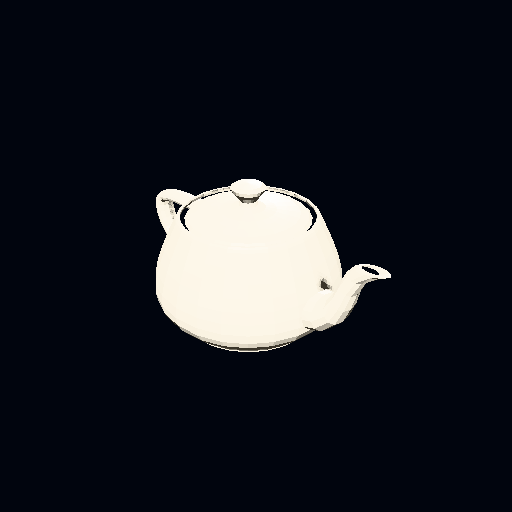
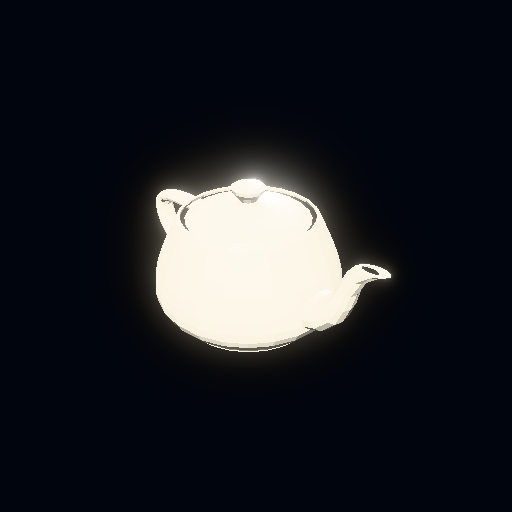
Regenerate three stale tutorial goldens the render defaults left behind, not a nondeterminism bug.
tut-07 quietly flipped renderProject's bloom and shadow defaults for any project with no lighting of its own; case 2's and case 6's own reference PNGs were never regenerated for it and went stale, while case 5's already had been. Confirmed the render path itself is not the cause (two fresh renders of the same request are always byte-identical), documented why on renderProject and both fixture tools, and regenerated the three affected pictures.

Changed region(s): [[0.25, 0.2812, 0.7812, 0.7188], [0.625, 0.5312, 0.6562, 0.5625]]

diff --git a/packages/flutter3d_cpu/test/render_project_test.dart b/packages/flutter3d_cpu/test/render_project_test.dart
@@ -319,6 +319,86 @@ void main() {
     });
   });
 
+  group('tut-22 — renderProject is deterministic', () {
+    // `tut-22`'s own investigation (`doc/modeler-tutorial-gaps.md`): four
+    // committed tutorial reference PNGs were found to differ from a clean
+    // regenerate of the same, unmodified HEAD. That turned out to have
+    // nothing to do with `renderProject` itself — the real cause was
+    // `tut-07`'s own legitimate default change (`RenderSettings.bloom`/
+    // `.shadows` now follow `SceneLighting`'s own defaults, which do not
+    // match `RenderSettings`'s bare ones, for a project that never touches
+    // its own lighting) reaching two tutorial cases' own reference pictures
+    // that were never regenerated for it — not a source of nondeterminism
+    // anywhere in the render path. This group is what actually rules that
+    // out, rather than leaving it assumed: the same project, rendered twice,
+    // must come back byte-identical, in one process and across two.
+    test(
+      'the same project, rendered twice in one process, is byte-identical',
+      () async {
+        // A shape close to the two cases this row's own investigation named:
+        // an edited mesh under a modifier, no explicit `SceneLighting` at
+        // all — exactly the combination that made `tut-07`'s default change
+        // invisible to every test that only ever compared *within* one run.
+        final project = _editedCubeProject(
+          modifiers: <ModifierSlot>[
+            ModifierSlot(modifier: MirrorModifier(normal: Vector3(1, 0, 0))),
+          ],
+        );
+        final request = RenderRequest(
+          project: project,
+          view: RenderProjectView.front,
+          width: 64,
+          height: 64,
+        );
+        final first = await renderProject(request, deviceFactory: _cpuDevice);
+        final second = await renderProject(request, deviceFactory: _cpuDevice);
+        expect(
+          second,
+          orderedEquals(first),
+          reason:
+              'renderProject has no clock, no random seed and no unordered '
+              'Set/Map on its own render path — two calls with the same '
+              'RenderRequest must produce the same bytes',
+        );
+      },
+    );
+
+    test(
+      'the same project, rendered in two fresh CpuDevices, is byte-identical',
+      () async {
+        // `_cpuDevice` builds a brand-new `CpuDevice` per call, the same
+        // shape `tool/make_caseN_fixtures.dart` uses from a fresh `dart run`
+        // process each time it is invoked by hand — so this is the closer
+        // analogue of "two fresh processes" than the test above, without
+        // actually paying for a second process.
+        final project = _cubeProject();
+        final request = RenderRequest(
+          project: project,
+          view: RenderProjectView.iso,
+          width: 48,
+          height: 48,
+        );
+        final a = await renderProject(
+          request,
+          deviceFactory: (w, h) => CpuDevice(
+            width: w,
+            height: h,
+            shaders: CpuShaderLibrary(builtinCpuShaders()),
+          ),
+        );
+        final b = await renderProject(
+          request,
+          deviceFactory: (w, h) => CpuDevice(
+            width: w,
+            height: h,
+            shaders: CpuShaderLibrary(builtinCpuShaders()),
+          ),
+        );
+        expect(b, orderedEquals(a));
+      },
+    );
+  });
+
   group('tut-06 — modifiers read at render time', () {
     Future<Rgba8Image> render(ModelProject project) async =>
         (await decodeImagePure(

diff --git a/packages/flutter3d_model_core/lib/src/render_project.dart b/packages/flutter3d_model_core/lib/src/render_project.dart
@@ -208,6 +208,27 @@ const int _maxRenderDimension = 1024;
 /// [ModelProject.lighting] still does not reach a picture through
 /// (`ambientIntensity`, `environment`).
 ///
+/// **`tut-07` also moved bloom and shadows onto [SceneLighting]'s own
+/// defaults, which do not match [RenderSettings]'s bare ones — `tut-22`'s
+/// own finding.** Before `tut-07`, this function always rendered with
+/// `bloom` forced off and `shadows` left at [ShadowSettings]'s own default
+/// (`enabled: true`), regardless of the project. Since, both come from
+/// [LightingSync.apply] instead: `bloom.enabled` follows
+/// `SceneLighting.post.bloomEnabled` (default `true`) and `shadows.enabled`
+/// follows `SceneLighting.shadows` (default `false`) — the opposite of each
+/// bare default, for *any* project that has never called
+/// `SetSceneLightingField` at all. A deliberate change (verified against
+/// case 3's and case 4's own reference pictures in the same commit, and by
+/// `tut-22`'s own determinism tests below — this function has no clock, no
+/// random seed and no unordered iteration on its own render path, so it is
+/// not the source of a byte difference), but four other tutorial cases'
+/// reference pictures were not regenerated when it landed and quietly went
+/// stale — `tut-22`'s own row is the account of finding and fixing that.
+/// **Any tutorial case whose fixture never sets `SceneLighting` explicitly
+/// is reading these two defaults**, so if either one moves again, every
+/// such case's reference pictures need regenerating, not only the ones a
+/// commit happens to check by eye.
+///
 /// Throws [RenderRefusal] for a size outside 1×1..1024×1024, before
 /// [deviceFactory] is ever called.
 Future<Uint8List> renderProject(

diff --git a/packages/flutter3d_model_mcp/tool/make_case2_fixtures.dart b/packages/flutter3d_model_mcp/tool/make_case2_fixtures.dart
@@ -8,6 +8,16 @@
 // deliberate change to the scenario or the writers it exercises; read the
 // diff before committing the new fixtures.
 //
+// `tut-22` (`doc/modeler-tutorial-gaps.md`): 05-vase-mesh.png and
+// 06-vase-modifiers-preview.png were found to differ, deterministically,
+// from a clean regenerate of the same HEAD — not because renderProject is
+// nondeterministic (it isn't; see `render_project_test.dart`'s own
+// `tut-22` group), but because `tut-07`'s own commit moved bloom's and
+// shadows' defaults onto `SceneLighting`'s own (see
+// `render_project.dart`'s doc comment) and this case never sets its own
+// lighting at all, so both PNGs quietly went stale without anyone
+// regenerating them. Regenerated deliberately as part of `tut-22`'s own fix.
+//
 //     dart run tool/make_case2_fixtures.dart
 import 'dart:io';
 import 'dart:typed_data';

diff --git a/packages/flutter3d_model_mcp/tool/make_case6_fixtures.dart b/packages/flutter3d_model_mcp/tool/make_case6_fixtures.dart
@@ -6,6 +6,15 @@
 // Run once by hand after a deliberate change to the scenario or the writers
 // it exercises; read the diff before committing the new fixtures.
 //
+// `tut-22` (`doc/modeler-tutorial-gaps.md`): 02-final-material.png was
+// found to differ, deterministically, from a clean regenerate of the same
+// HEAD — not because renderProject is nondeterministic (it isn't; see
+// `render_project_test.dart`'s own `tut-22` group), but because `tut-07`'s
+// own commit moved bloom's and shadows' defaults onto `SceneLighting`'s own
+// (see `render_project.dart`'s doc comment) and this case never sets its
+// own lighting at all, so the PNG quietly went stale without anyone
+// regenerating it. Regenerated deliberately as part of `tut-22`'s own fix.
+//
 //     dart run tool/make_case6_fixtures.dart
 import 'dart:io';
 import 'dart:typed_data';

diff --git a/doc/model-editor-plan.md b/doc/model-editor-plan.md
@@ -868,6 +868,7 @@ version is its own later row.
 | tut-19 *(found closing out tut-00, 2026-09-15)* | The plan's own known candidate: the cabinet has no preview picture. Still true, and already tracked elsewhere, not a fresh finding: `cloud/README.md`'s own "What is not here yet" says outright the schema and repository have a place for a preview picture but nothing makes one yet, pending a browser-side capture the viewer cannot read back yet. The plan's own "out of scope" list already calls this "a separate `cloud` row". **Decision: откладываем** — already an owner-acknowledged `cloud` roadmap item; this pass only confirms it is still true and gives it a `tut-NN` name so the gap journal's own acceptance rule has something to point at | cloud | — | — | — | not scheduled this pass — tracked by `cloud/README.md` already; a real row lives with `cloud`'s own plan, not `model-editor-plan.md` |
 | tut-20 *(found closing out tut-00, 2026-09-15)* | The plan's own known candidate: a model opened from the cabinet cannot be saved back. Still true, and already tracked elsewhere, not a fresh finding: the same "What is not here yet" section says editing from the cabinet is real (the viewer opens a model) but saving it back, with revisions, is its own next stage. **Decision: откладываем** — same reasoning as `tut-19`, and the same source names both in one breath | cloud | — | — | — | not scheduled this pass — tracked by `cloud/README.md` already; a real row lives with `cloud`'s own plan, not `model-editor-plan.md` |
 | tut-21 *(found fixing tut-10, 2026-09-15)* | `tut-10`'s own row named this outright and left it open on purpose: `buildSkeleton` (`packages/flutter3d_model_core/lib/src/rig_template.dart`) computed every joint's `inverseBindMatrices` as `inverse(worldRest)` alone — correct only for a mesh object whose own world transform happens to be the identity, and silently wrong for anything else, since every marker `buildSkeleton` reads is a world-space pick but the engine's own skinning convention (`Skeleton.update`'s own doc comment, `packages/flutter3d_core/lib/src/engine/scene/skeleton.dart`: `jointMatrix = inverse(meshWorld) * jointWorld * inverseBind`) needs `inverseBind` to undo a bind-time position in the mesh object's own *local* space, not world space. Confirmed directly against the real `RobotExpressive.glb` fixture (a genuine ~100× scale and an axis swap, both from the file's own node hierarchy, not a synthetic case): fed through the unmodified GPU formula, the torso collapsed to about 1% of its real size. `render_project.dart`'s own `_withSkin` (`tut-10`'s fix) worked around this at render time only, by composing an extra `* meshWorld` onto each joint's own matrix; the live viewport's GPU pipeline (`SceneSync`/`Skeleton.update`) and the shadow and object-pick passes had no such workaround and simply skinned every non-identity mesh transform wrong — a real bug in every rig `T4.2`/`T4.3`'s auto-rig (`anim-21`/`anim-33d`) or screen 16 ever built for a mesh object that was not sitting at the identity. **Closed 2026-09-15**: `buildSkeleton` gains an optional `meshWorld` parameter (the mesh object's own world transform at bind time, defaulting to the identity when nothing is being skinned yet) and bakes it into `inverseBindMatrices` itself — `worldRest⁻¹ · meshWorld`, composed once at rig-build time rather than worked around per-consumer — so every reader of a `ProjectSkeleton` (the live viewport, the shadow and pick passes, `render_project.dart` alike) now gets a correct bind matrix regardless of the mesh's own transform. Its three real call sites — `autorig_markers.dart`'s `createRig` and `model_session.dart`'s `autoRig` (both read the skinned object's own `worldTransformOf` when a `skinObjectId` is given) and `case4_scenario.dart`'s own `RobotExpressive.glb` scenario — now pass it through. `render_project.dart`'s `_withSkin` no longer composes its own extra `* meshWorld`: the two corrections were mathematically the same composition, reassociated, so removing the workaround leaves `render_project.dart`'s own rendered pictures numerically the same (case 4's own `case4.f3dproj`/`.glb` and case 5's own `case5.f3dproj`/`.glb`, which starts from case 4's committed project, are regenerated — the skeleton's raw `inverseBindMatrices` bytes differ, the rendered pictures do not beyond floating-point-reassociation-level anti-aliasing at a silhouette edge, confirmed by rendering both before and after and diffing the PNGs directly). New coverage: `rig_bind_convention_test.dart`, driving the *real* engine `Skeleton.update` (not a reimplementation) against a rig built through a genuinely non-identity `meshWorld` (a ~100× scale plus a 90° axis swap, mirroring `RobotExpressive.glb`'s own real shape) and asserting a posed vertex lands at the correct world position — confirmed to fail against the pre-fix code (the vertex lands at about 1% of its expected position, reproducing this row's own "torso collapses" finding exactly) and to pass against the fix. Every prior `buildSkeleton` test (`rig_template_test.dart`, `retarget_test.dart`, `autorig_frame_test.dart`'s own `modeler-autorig.png` golden, `frame_test.dart`'s own `skeleton-overlay.png` golden) used an implicit identity `meshWorld` throughout — checked directly, every mesh object those tests build carries `Matrix4.identity()` — which is exactly why none of them caught this before, and why they stay green unchanged by this fix | core + app + mcp | M | 3 | tut-10 | closed — `buildSkeleton`'s own `inverseBindMatrices` are correct in the engine's expected convention regardless of the skinned mesh's own world transform, confirmed against a real non-identity transform through the actual `Skeleton.update` GPU formula, not only reasoned about; `render_project.dart`'s own render-time workaround is gone, its render output unchanged; every `buildSkeleton` caller with a mesh to skin now supplies its own world transform |
+| tut-22 *(found investigating a golden-drift finding an earlier pass left alone, 2026-09-15)* | An earlier pass found, and deliberately left alone, that four committed tutorial reference PNGs — case 2's `05-vase-mesh.png`/`06-vase-modifiers-preview.png`, case 5's `04-character-after-retarget.png`, case 6's `02-final-material.png` — already differed, deterministically, from a clean regenerate of the same unmodified HEAD (a stash-and-diff control run, not assumed). Re-run first, per case, through each case's own `tool/make_caseN_fixtures.dart`: case 5's own picture no longer differs — it was last regenerated in `cf317f17` (the `buildSkeleton`/`tut-21` fix), which landed after `tut-07` below and so already carries its effect — dropped from this row's scope rather than chased. Case 2's two pictures and case 6's one still did. **Closed 2026-09-15.** Root cause, found by toggling each candidate setting back to its pre-`tut-07` value and diffing byte-for-byte against the committed PNGs rather than guessed: `tut-07`'s own commit (`c7e1da1d`) replaced `render_project.dart`'s hardcoded `settings: const RenderSettings(bloom: BloomSettings(enabled: false))` (which left `shadows` at `ShadowSettings`'s own default, `enabled: true`) with `LightingSync().apply(const RenderSettings(), request.project.lighting)` — a deliberate fix for a project's *own* lights, but for a project that never calls `SetSceneLightingField` at all it silently flips two unrelated defaults the other way: `bloom.enabled` now follows `SceneLighting.post.bloomEnabled` (`true`, was forced `false`) and `shadows.enabled` now follows `SceneLighting.shadows` (`false`, was `ShadowSettings`'s own `true`). Case 2 (a vase, mirror and array modifiers, no light of its own) and case 6 (a teapot with a material only, likewise) are exactly that shape. Confirmed empirically, not only reasoned about: rendering each case's own project with `bloom` forced back off and `shadows` forced back on reproduces the exact bytes already committed for all three PNGs; `render_project.dart` was never touched to make this true — the render path itself has no clock, no random seed and no unordered `Set`/`Map` iteration, confirmed by rendering the same request twice in one process and again across two separate `CpuDevice` instances and finding the bytes identical every time — so this was never a source of nondeterminism, only three reference pictures that legitimately went stale the moment `tut-07` changed what a project with no lighting of its own renders as, and were never regenerated for it (unlike case 3's and case 4's own pictures, regenerated in the very same commit, and case 5's, regenerated later by `tut-21`). Fixed by regenerating the three PNGs deliberately now that the cause is understood, and by recording it where the next reader will find it: a paragraph on `renderProject`'s own doc comment (`render_project.dart`) spelling out that any tutorial case whose fixture never sets `SceneLighting` explicitly is reading these two particular defaults, so a future move of either needs every such case's pictures regenerated, not only the ones a commit happens to check by eye; a matching note at the top of `make_case2_fixtures.dart` and `make_case6_fixtures.dart` themselves. New coverage: `flutter3d_cpu/test/render_project_test.dart`'s own `tut-22` group — the same `RenderRequest` rendered twice in one process, and again through two independently constructed `CpuDevice`s, must come back byte-identical; this is what the repository did not have before, and would have (correctly) stayed green through this whole investigation, which is exactly the point of it: it rules engine nondeterminism out rather than only asserting it is ruled out | core + mcp | S | 3 | tut-07, tut-21 | closed — case 2's and case 6's own reference pictures are regenerated and match what this code deterministically draws; case 5's own picture already did and was left untouched; `renderProject`'s own doc comment and both fixture tools now say why a case with no lighting of its own is sensitive to `SceneLighting`'s bloom/shadow defaults; a new determinism test proves the render path itself was never the cause |
 
 ---
 

diff --git a/doc/modeler-tutorial-gaps.md b/doc/modeler-tutorial-gaps.md
@@ -48,6 +48,15 @@ The other three are below, alongside two fresh findings from re-reading
 | — | cabinet: a model's detail page | a model uploaded to the cabinet shows a preview picture | still true, and already tracked, not a fresh finding: `cloud/README.md`'s own "What is not here yet" says outright the schema and repository have a place for one but nothing makes one yet, pending a browser-side capture the viewer cannot read back. The plan's own "out of scope" list already names this "a separate `cloud` row" | UX | tut-19 |
 | — | cabinet: re-open a model | a model opened from the cabinet's own viewer can be edited and saved back to the same entry, as a revision | still true, and already tracked, not a fresh finding: the same "What is not here yet" section says editing from the cabinet is real but saving back is its own next stage, with revisions | UX | tut-20 |
 
+A later pass (T8) found, while closing out an earlier one's own
+"golden-drift" finding, that a case's own reference pictures can go stale
+without anyone noticing: nothing here says one case's `renderProject`
+defaults have to match another's forever.
+
+| case | step | expected | actual | type | plan row |
+|---|---|---|---|---|---|
+| — | any case's own headless "expected result" PNG, rendered by `tool/make_caseN_fixtures.dart` | a clean regenerate of the same, unmodified HEAD reproduces the committed picture byte-for-byte | **Resolved 2026-09-15 (tut-22).** Four committed PNGs — case 2's `05-vase-mesh.png`/`06-vase-modifiers-preview.png`, case 5's `04-character-after-retarget.png`, case 6's `02-final-material.png` — were found, and left alone, differing deterministically from a clean regenerate. Re-checked directly: case 5's no longer differs (last regenerated in `cf317f17`, after the real cause below had already landed) and is dropped from scope; case 2's two and case 6's one still did. Root cause: `tut-07`'s own commit swapped `render_project.dart`'s hardcoded `bloom: false`/implicit `shadows: true` for `LightingSync().apply(...)`, which for a case that never sets its own `SceneLighting` reads `SceneLighting`'s own defaults instead — bloom now defaults *on*, shadows now default *off*, the opposite of before. Confirmed, not assumed: forcing both settings back to their pre-`tut-07` values reproduces the committed bytes exactly; two fresh renders of the same request are always byte-identical to each other, in one process and across two separate `CpuDevice`s, so the render path itself was never the source. Fixed by regenerating the three stale PNGs deliberately, documenting the cause on `renderProject`'s own doc comment and at the top of both fixture tools, and adding `render_project_test.dart`'s own `tut-22` determinism group so a future report like this one can rule the render path in or out in one test run instead of a fresh investigation | function (stale documentation), resolved | tut-22 |
+
 Case 1 ("A prop from a scan"), case 2 ("A vase from a profile"), case 3
 ("A lit corner"), case 4 ("A character from a bare mesh"), case 5
 ("Borrowing a walk: retarget a clip") and case 6 ("An agent beside you")
